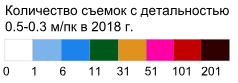
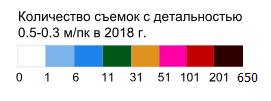
Iconlayer legend was fixed

diff --git a/src/css/main.css b/src/css/main.css
@@ -413,8 +413,8 @@ html, body {
 }
 
 .iconlayers-legend {
-    width: 238px;
-    height: 83px;
+    width: 271px;
+    height: 101px;
     background-image: url('img/legend.png');
     position: absolute;
     bottom:125px;
